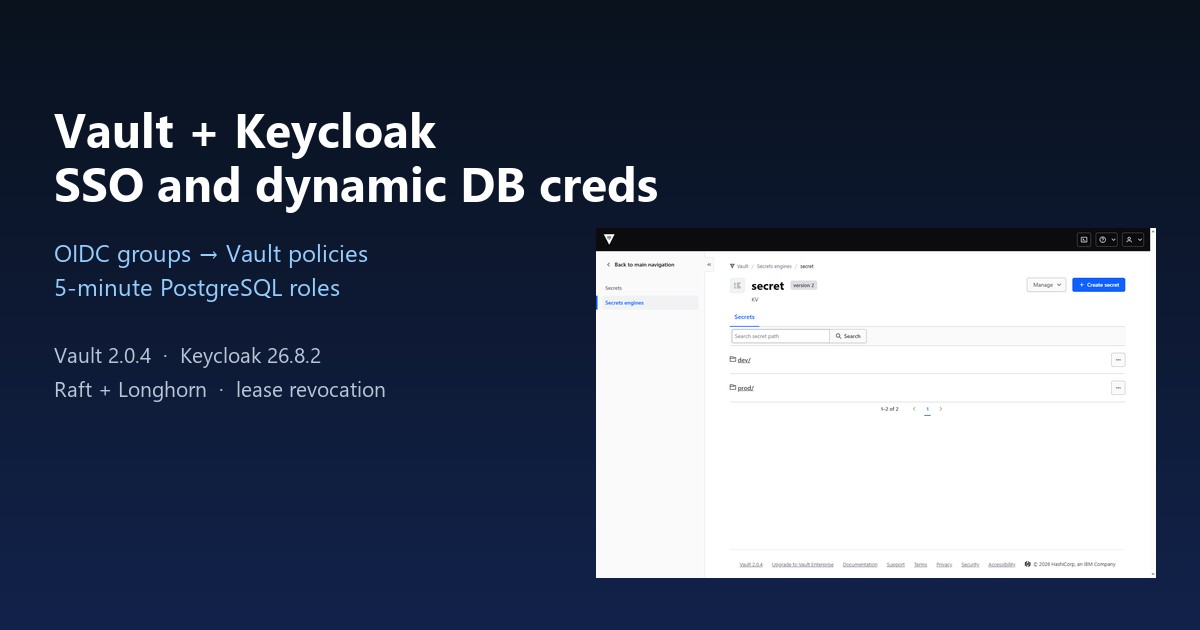
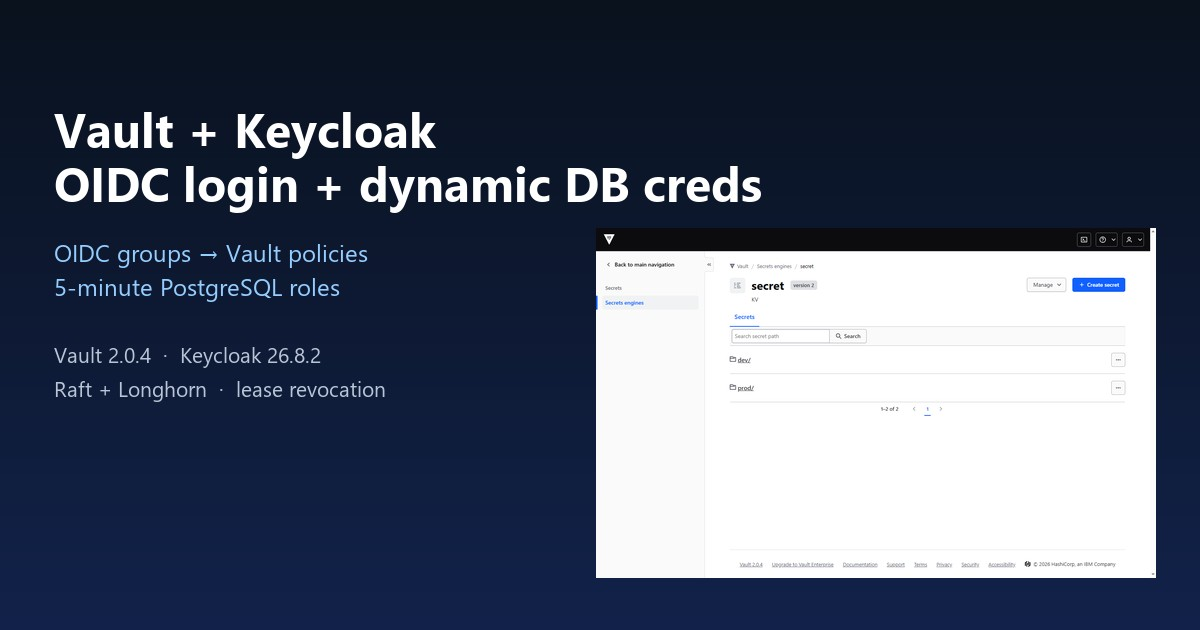
Rename Vault + Keycloak post title

Changed region(s): [[0.0308, 0.2413, 0.6475, 0.3317]]

diff --git a/blog/Vault-Keycloak-SSO-and-Dynamic-DB-Credentials.html b/blog/Vault-Keycloak-SSO-and-Dynamic-DB-Credentials.html
@@ -4,7 +4,7 @@
     <meta charset="UTF-8">
     <meta name="viewport" content="width=device-width, initial-scale=1.0">
     <meta name="description" content="Log into HashiCorp Vault with the Keycloak identity you already have, map Keycloak groups to Vault policies, then let Vault issue five-minute PostgreSQL credentials for the Keycloak database itself.">
-    <meta property="og:title" content="Vault + Keycloak: SSO for Humans, Short-Lived Credentials for Apps — Champ Patyatawee">
+    <meta property="og:title" content="Vault + Keycloak: OIDC Login and Dynamic Database Credentials — Champ Patyatawee">
     <meta property="og:description" content="Log into HashiCorp Vault with the Keycloak identity you already have, map Keycloak groups to Vault policies, then let Vault issue five-minute PostgreSQL credentials for the Keycloak database itself.">
     <meta property="og:type" content="article">
     <meta property="og:url" content="https://champ.patyatawee.com/blog/Vault-Keycloak-SSO-and-Dynamic-DB-Credentials">
@@ -13,10 +13,10 @@
     <meta property="og:image:height" content="630">
     <meta property="og:image:type" content="image/jpeg">
     <meta name="twitter:card" content="summary_large_image">
-    <meta name="twitter:title" content="Vault + Keycloak: SSO for Humans, Short-Lived Credentials for Apps">
+    <meta name="twitter:title" content="Vault + Keycloak: OIDC Login and Dynamic Database Credentials">
     <meta name="twitter:description" content="Log into HashiCorp Vault with the Keycloak identity you already have, map Keycloak groups to Vault policies, then let Vault issue five-minute PostgreSQL credentials for the Keycloak database itself.">
     <meta name="twitter:image" content="https://champ.patyatawee.com/image/blog/Vault-Keycloak-SSO-and-Dynamic-DB-Credentials/og.jpg">
-    <meta name="twitter:image:alt" content="Vault + Keycloak: SSO for Humans, Short-Lived Credentials for Apps">
+    <meta name="twitter:image:alt" content="Vault + Keycloak: OIDC Login and Dynamic Database Credentials">
     <!-- Thai alternate meta -->
     <meta name="description" content="Log into HashiCorp Vault with the Keycloak identity you already have, map Keycloak groups to Vault policies, then let Vault issue five-minute PostgreSQL credentials for the Keycloak database itself." lang="th">
     <meta property="og:locale:alternate" content="th_TH">
@@ -24,7 +24,7 @@
     <link rel="alternate" hreflang="en" href="https://champ.patyatawee.com/blog/Vault-Keycloak-SSO-and-Dynamic-DB-Credentials">
     <link rel="alternate" hreflang="th" href="https://champ.patyatawee.com/blog/Vault-Keycloak-SSO-and-Dynamic-DB-Credentials">
     <link rel="alternate" hreflang="x-default" href="https://champ.patyatawee.com/blog/Vault-Keycloak-SSO-and-Dynamic-DB-Credentials">
-    <title>Vault + Keycloak: SSO for Humans, Short-Lived Credentials for Apps — Champ Patyatawee</title>
+    <title>Vault + Keycloak: OIDC Login and Dynamic Database Credentials — Champ Patyatawee</title>
     <link rel="icon" href="../favicon.ico" sizes="any" type="image/x-icon">
     <link rel="stylesheet" href="style.css?v=8">
     <link href="https://cdnjs.cloudflare.com/ajax/libs/prism/1.29.0/themes/prism.min.css" rel="stylesheet" />
@@ -111,7 +111,7 @@
             <a href="index.html" class="back-link"><i data-lucide="arrow-left" class="back-icon"></i> Back to Blog</a>
             
             <header class="post-header">
-                <h1 class="post-title" id="post-title">Vault + Keycloak: SSO for Humans, Short-Lived Credentials for Apps</h1>
+                <h1 class="post-title" id="post-title">Vault + Keycloak: OIDC Login and Dynamic Database Credentials</h1>
                 <div class="post-meta">
                     <span class="post-date"><i data-lucide="calendar" class="meta-icon"></i> <span id="post-date">November 12, 2026</span></span>
                     <span class="post-reading-time"><i data-lucide="clock" class="meta-icon"></i> <span id="post-reading-time">12 min read</span></span>
@@ -833,7 +833,7 @@ kubectl delete namespace vault --ignore-not-found
             <footer class="post-footer">
                 <div class="share-links">
                     <span class="share-label">Share this post:</span>
-                    <a href="https://twitter.com/intent/tweet?text=Vault%20%2B%20Keycloak%3A%20SSO%20for%20Humans%2C%20Short-Lived%20Credentials%20for%20Apps&url=https://champ.patyatawee.com/blog/Vault-Keycloak-SSO-and-Dynamic-DB-Credentials" target="_blank" rel="noopener noreferrer" class="share-link" title="Share on Twitter">
+                    <a href="https://twitter.com/intent/tweet?text=Vault%20%2B%20Keycloak%3A%20OIDC%20Login%20and%20Dynamic%20Database%20Credentials&url=https://champ.patyatawee.com/blog/Vault-Keycloak-SSO-and-Dynamic-DB-Credentials" target="_blank" rel="noopener noreferrer" class="share-link" title="Share on Twitter">
                         <svg width="20" height="20" viewBox="0 0 24 24" fill="none" stroke="currentColor" stroke-width="2" stroke-linecap="round" stroke-linejoin="round"><path d="M22 4s-.7 2.1-2 3.4c1.6 10-9.4 17.3-18 11.6 2.2.1 4.4-.6 6-2C3 15.5.5 9.6 3 5c2.2 2.6 5.6 4.1 9 4-.9-4.2 4-6.6 7-3.8 1.1 0 3-1.2 3-1.2z"/></svg>
                     </a>
                     <a href="https://www.facebook.com/sharer/sharer.php?u=https://champ.patyatawee.com/blog/Vault-Keycloak-SSO-and-Dynamic-DB-Credentials" target="_blank" rel="noopener noreferrer" class="share-link" title="Share on Facebook">
@@ -1096,13 +1096,13 @@ kubectl delete namespace vault --ignore-not-found
             // Values use JSON.stringify() in the build script, so no quotes needed here
             const langData = {
                 en: {
-                    title: "Vault + Keycloak: SSO for Humans, Short-Lived Credentials for Apps",
+                    title: "Vault + Keycloak: OIDC Login and Dynamic Database Credentials",
                     date: "November 12, 2026",
                     readingTime: "12 min read",
                     tags: "<span class=\"tag\">vault</span>\n<span class=\"tag\">keycloak</span>\n<span class=\"tag\">sso</span>\n<span class=\"tag\">oidc</span>\n<span class=\"tag\">kubernetes</span>\n<span class=\"tag\">k3s</span>\n<span class=\"tag\">security</span>\n<span class=\"tag\">postgres</span>",
                 },
                 th: {
-                    title: "Vault + Keycloak: SSO for Humans, Short-Lived Credentials for Apps",
+                    title: "Vault + Keycloak: OIDC Login and Dynamic Database Credentials",
                     date: "November 12, 2026",
                     readingTime: "12 นาที",
                     tags: "<span class=\"tag\">vault</span>\n<span class=\"tag\">keycloak</span>\n<span class=\"tag\">sso</span>\n<span class=\"tag\">oidc</span>\n<span class=\"tag\">kubernetes</span>\n<span class=\"tag\">k3s</span>\n<span class=\"tag\">security</span>\n<span class=\"tag\">postgres</span>",

diff --git a/index.html b/index.html
@@ -1715,8 +1715,8 @@
         <div class="latest-grid">
             <!-- HOME_POSTS_START -->
 
-                <div class="home-post-card" data-en-title="Vault + Keycloak: SSO for Humans, Short-Lived Credentials for Apps" data-th-title="Vault + Keycloak: SSO for Humans, Short-Lived Credentials for Apps">
-                    <h2 class="home-post-card-title"><a href="blog/Vault-Keycloak-SSO-and-Dynamic-DB-Credentials.html">Vault + Keycloak: SSO for Humans, Short-Lived Credentials for Apps</a><span class="lang-badge">EN</span></h2>
+                <div class="home-post-card" data-en-title="Vault + Keycloak: OIDC Login and Dynamic Database Credentials" data-th-title="Vault + Keycloak: OIDC Login and Dynamic Database Credentials">
+                    <h2 class="home-post-card-title"><a href="blog/Vault-Keycloak-SSO-and-Dynamic-DB-Credentials.html">Vault + Keycloak: OIDC Login and Dynamic Database Credentials</a><span class="lang-badge">EN</span></h2>
                     <div class="home-post-card-date"><i data-lucide="calendar" style="width:14px;height:14px;stroke-width:2;"></i> November 12, 2026</div>
                     <p class="home-post-card-excerpt" data-en-excerpt="Log into HashiCorp Vault with the Keycloak identity you already have, map Keycloak groups to Vault policies, then let Vault issue five-minute PostgreSQL credentials for the Keycloak database itself." data-th-excerpt="Log into HashiCorp Vault with the Keycloak identity you already have, map Keycloak groups to Vault policies, then let Vault issue five-minute PostgreSQL credentials for the Keycloak database itself.">Log into HashiCorp Vault with the Keycloak identity you already have, map Keycloak groups to Vault policies, then let Vault issue five-minute PostgreSQL credentials for the Keycloak database itself.</p>
                     <div class="home-post-card-tags"><span class="tag">vault</span>

diff --git a/blog/index.html b/blog/index.html
@@ -112,7 +112,7 @@
             
             <div class="post-card">
                 <div class="post-card-title-row">
-                    <h2 class="post-card-title"><a href="Vault-Keycloak-SSO-and-Dynamic-DB-Credentials.html">Vault + Keycloak: SSO for Humans, Short-Lived Credentials for Apps</a></h2>
+                    <h2 class="post-card-title"><a href="Vault-Keycloak-SSO-and-Dynamic-DB-Credentials.html">Vault + Keycloak: OIDC Login and Dynamic Database Credentials</a></h2>
                     <span class="lang-badge">EN</span>
                 </div>
                 <div class="post-card-date"><i data-lucide="calendar" style="width:14px;height:14px;stroke-width:2;"></i> November 12, 2026</div>

diff --git a/blog/posts/Vault-Keycloak-SSO-and-Dynamic-DB-Credentials/en.md b/blog/posts/Vault-Keycloak-SSO-and-Dynamic-DB-Credentials/en.md
@@ -1,5 +1,5 @@
 ---
-title: "Vault + Keycloak: SSO for Humans, Short-Lived Credentials for Apps"
+title: "Vault + Keycloak: OIDC Login and Dynamic Database Credentials"
 date: 2026-11-12
 tags: [vault, keycloak, sso, oidc, kubernetes, k3s, security, postgres]
 excerpt: "Log into HashiCorp Vault with the Keycloak identity you already have, map Keycloak groups to Vault policies, then let Vault issue five-minute PostgreSQL credentials for the Keycloak database itself."
@@ -401,3 +401,4 @@ SSO is only half of "Vault + Keycloak". The first half removes a password prompt
 - [Vault: Database secrets engine](https://developer.hashicorp.com/vault/docs/secrets/databases)
 - [Vault: Kubernetes Helm chart](https://developer.hashicorp.com/vault/docs/platform/k8s/helm)
 - [Keycloak: Server administration guide](https://www.keycloak.org/docs/latest/server_admin/)
+
